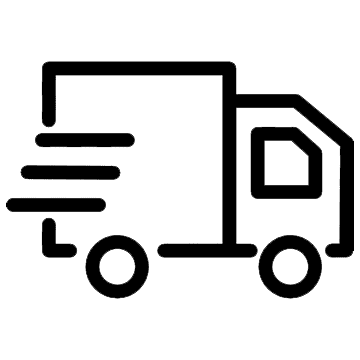
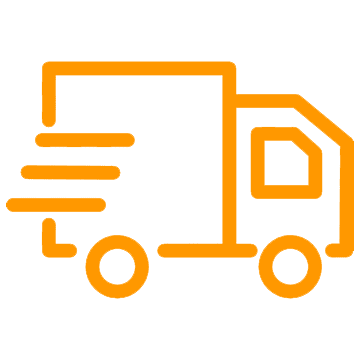
add css

Changed region(s): [[0.0, 0.1528, 1.0, 0.8556], [0.0611, 0.4583, 0.3361, 0.5194]]

diff --git a/src/app/pages/benefits/benefits.component.css b/src/app/pages/benefits/benefits.component.css
@@ -1,14 +1,15 @@
 .benefits-container {
-    display: flex;
-    flex-direction: row;
-    justify-content: center;
-    align-items: center;
-    gap: 20px;
-    text-align: center;
-    padding: 20px;
-    margin: auto 0;
-    background-color: white;
-  }
+  display: flex;
+  flex-direction: row;
+  justify-content: space-evenly;
+  align-items: center;
+  gap: 20px;
+  text-align: center;
+  padding: 20px;
+  background-color: white;
+ 
+}
+
   
   .benefit-item {
     display: flex;
@@ -28,6 +29,7 @@
   h3 {
     font-size: 18px;
     font-weight: bold;
+    color: #ff9800;
   }
   
   p {

diff --git a/src/app/pages/header/header.component.html b/src/app/pages/header/header.component.html
@@ -1,7 +1,9 @@
 <header class="header">
-    <div class="logo">
-      <img src="../../../assets/logo.png" alt="Logo de la tienda">
-    </div>
+    <a href="/">
+      <div class="logo">
+        <img src="../../../assets/logo.png" alt="Logo de la tienda">
+      </div>
+    </a>
   
     <div class="search-bar">
       <input type="text" placeholder="Search our products...">

diff --git a/src/app/pages/best-product/best-product.component.html b/src/app/pages/best-product/best-product.component.html
@@ -1,5 +1,5 @@
 <div class="container-bp">
-    <h3>This is our <strong>best products!</strong></h3>
+    <h3>This is our <strong class="title-bp">best products!</strong></h3>
     @for (product of productList.slice(0,6); track $index;) {
     @if (product.rating.rate > 3){
     <a [routerLink]="['/products', product.id]">

diff --git a/src/app/pages/products/products.component.css b/src/app/pages/products/products.component.css
@@ -1,9 +1,15 @@
-.loading {
+.loading{
         display: flex;
         justify-content: center;
         align-items: center;
+        flex-direction: column;
+        margin: auto 0;
         height: 100vh;
-        margin: 0 auto;
+        gap: 10px;    
+}
+
+.loading img{
+        height: 50px;
 }
 
 .product-grid {

diff --git a/src/app/pages/product-detail/product-detail.component.css b/src/app/pages/product-detail/product-detail.component.css
@@ -1,10 +1,17 @@
-.loading {
+.loading{
     display: flex;
     justify-content: center;
     align-items: center;
+    flex-direction: column;
+    margin: auto 0;
     height: 100vh;
-    margin: 0 auto;
+    gap: 10px;    
 }
+
+.loading img{
+    height: 50px;
+}
+
 
 .product-card {
     max-width: 1000px;

diff --git a/src/app/pages/products/products.component.html b/src/app/pages/products/products.component.html
@@ -1,5 +1,8 @@
 @if (loading == true) {
-  <h1 class="loading">Loading...</h1>
+  <div class="loading">
+    <h3>Loading...</h3>
+    <img src="../../../assets/Loading.gif" alt="loading">
+  </div>
 } @else {
   <div class="product-grid">
     @for (product of productList; track $index) {

diff --git a/src/app/pages/product-detail/product-detail.component.html b/src/app/pages/product-detail/product-detail.component.html
@@ -1,6 +1,8 @@
 @if ( loading == true) {
-    <h1 class="loading">Loading...</h1>
-    
+    <div class="loading">
+        <h3>Loading...</h3>
+        <img src="../../../assets/Loading.gif" alt="loading">
+      </div>    
 }
 @else {
   <div class="product-card">

diff --git a/src/app/pages/carousel/carousel.component.css b/src/app/pages/carousel/carousel.component.css
@@ -26,3 +26,11 @@
       height: 350px;
   }
 }
+
+.carousel-indicators button {
+  background-color: #555; /* Color de los indicadores inactivos */
+}
+
+.carousel-indicators .active {
+  background-color: #ff9800; /* Color del indicador activo */
+}

diff --git a/src/app/pages/best-product/best-product.component.css b/src/app/pages/best-product/best-product.component.css
@@ -6,6 +6,10 @@
     padding: 20px;
 }
 
+.title-bp{
+    color: #ff9800;
+}
+
 .container-bp h3 {
     text-align: center;
     width: 100%;

diff --git a/src/app/pages/footer/footer.component.css b/src/app/pages/footer/footer.component.css
@@ -27,6 +27,7 @@
 .footer-section h4 {
   margin-bottom: 10px;
   font-size: 18px;
+  color: #ff9800;
 }
 
 .footer-section ul {
